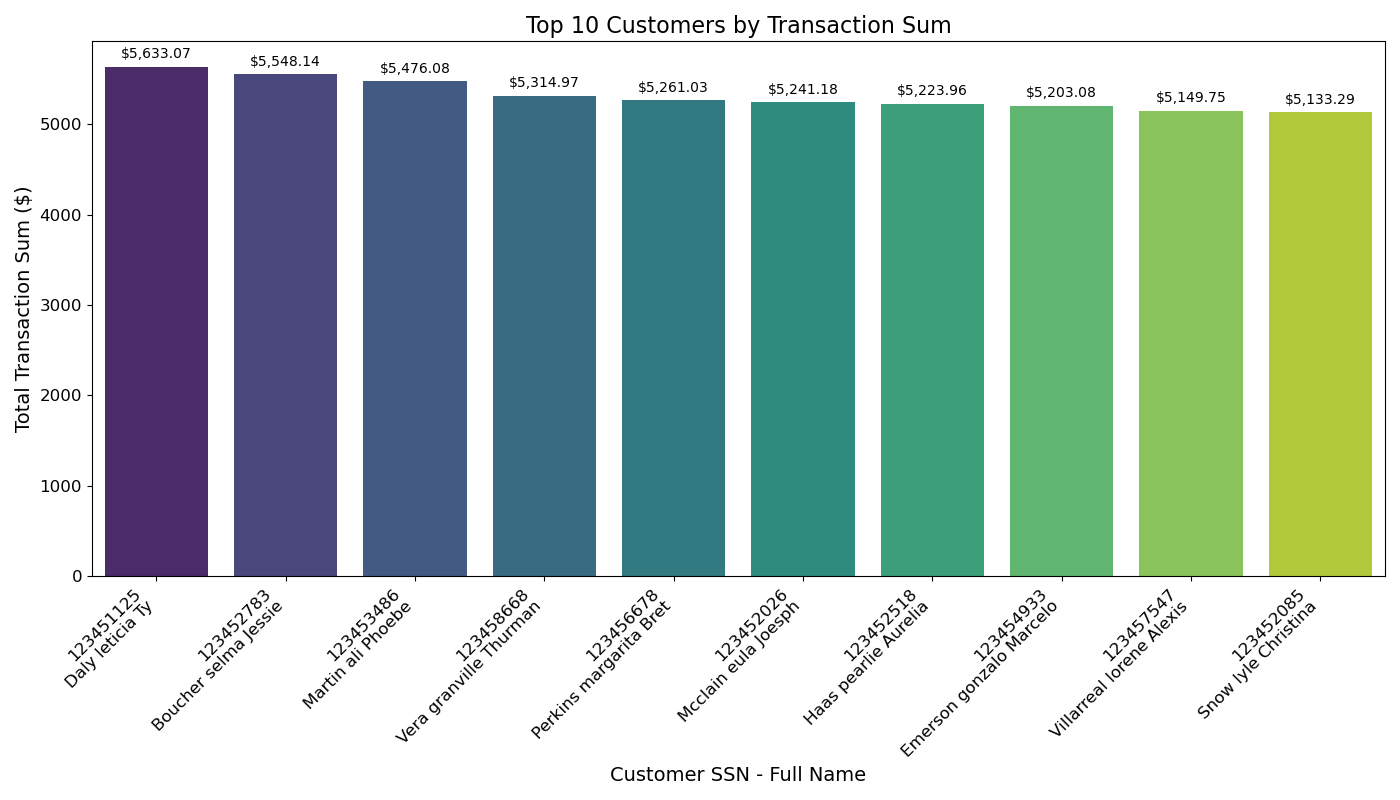
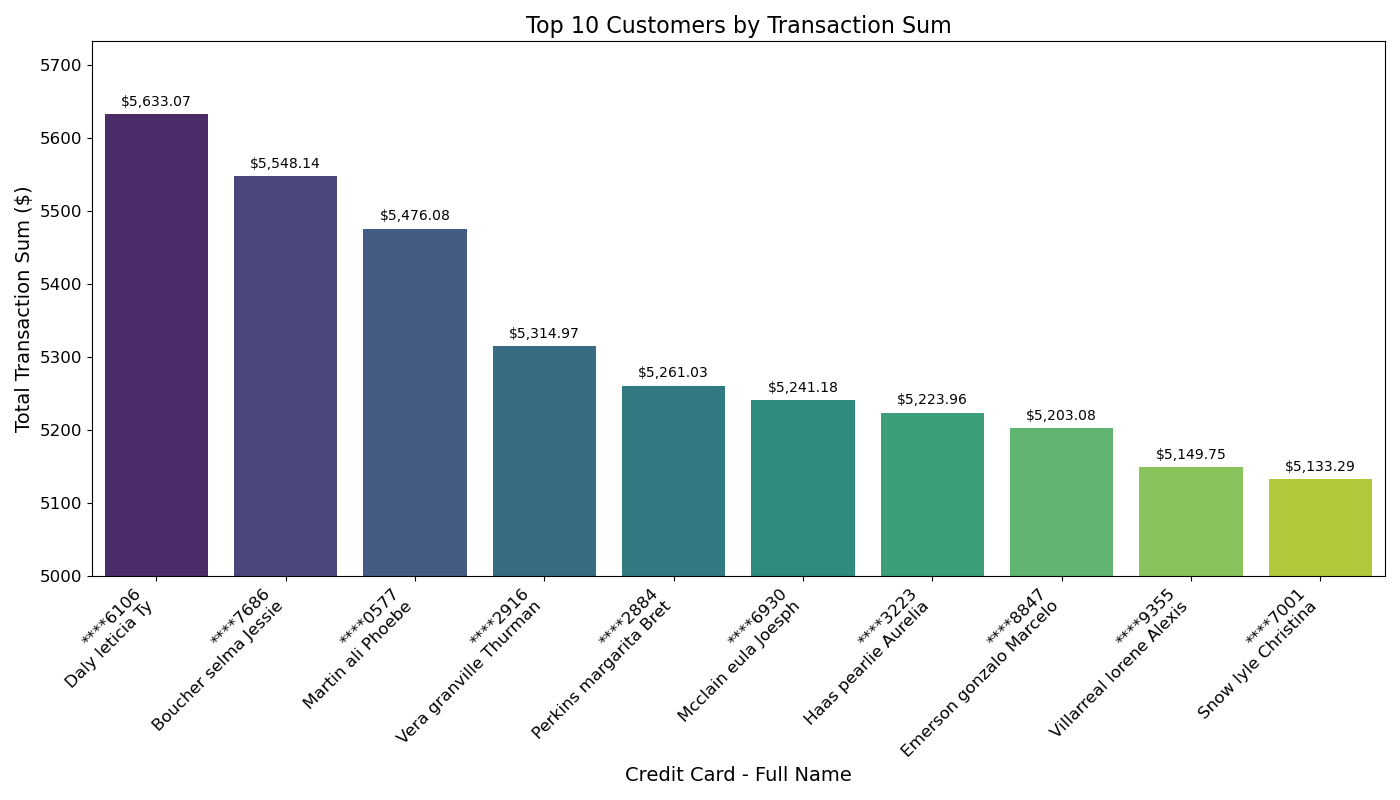
update_07181040

diff --git a/src/functions.py b/src/functions.py
@@ -598,6 +598,8 @@ def plot_transaction_type_count(connection):
     plt.ylabel('Transaction Count')
     plt.xticks(rotation=45)
     
+    plt.ylim(6500, df['transaction_count'].max() + 100)
+    
     for p in ax.patches:
         ax.annotate(f'{int(p.get_height())}', (p.get_x() + p.get_width() / 2., p.get_height()),
                     ha='center', va='center', xytext=(0, 9), textcoords='offset points')
@@ -649,28 +651,31 @@ def plot_top_states_with_customers(connection):
 def plot_top_customers_by_transaction_sum(connection):
     query = """
     SELECT 
-        cc.CUST_SSN, 
+        cc.CREDIT_CARD_NO, 
         ROUND(SUM(cc.TRANSACTION_VALUE), 2) AS total_transaction_sum,
         CONCAT(c.LAST_NAME, ' ', c.MIDDLE_NAME, ' ', c.FIRST_NAME) AS full_name
     FROM CDW_SAPP_CREDIT_CARD cc
     JOIN CDW_SAPP_CUSTOMER c ON cc.CUST_SSN = c.SSN
-    GROUP BY cc.CUST_SSN, c.LAST_NAME, c.MIDDLE_NAME, c.FIRST_NAME
+    GROUP BY cc.CREDIT_CARD_NO, c.LAST_NAME, c.MIDDLE_NAME, c.FIRST_NAME
     ORDER BY total_transaction_sum DESC
     LIMIT 10
     """
     df = pd.read_sql(query, connection)
     
-    df['SSN_Name'] = df['CUST_SSN'].astype(str) + "\n" + df['full_name']
+    # Extract the last 4 digits of the credit card number and combine with the full name
+    df['Card_Name'] = '****' + df['CREDIT_CARD_NO'].astype(str).str[-4:] + "\n" + df['full_name']
     
-    df['SSN_Name'] = pd.Categorical(df['SSN_Name'], categories=df['SSN_Name'], ordered=True)
+    df['Card_Name'] = pd.Categorical(df['Card_Name'], categories=df['Card_Name'], ordered=True)
 
     plt.figure(figsize=(14, 8))
-    ax = sns.barplot(x='SSN_Name', y='total_transaction_sum', data=df, palette='viridis')
+    ax = sns.barplot(x='Card_Name', y='total_transaction_sum', data=df, palette='viridis')
     plt.title('Top 10 Customers by Transaction Sum', fontsize=16)
-    plt.xlabel('Customer SSN - Full Name', fontsize=14)
+    plt.xlabel('Credit Card - Full Name', fontsize=14)
     plt.ylabel('Total Transaction Sum ($)', fontsize=14)
     plt.xticks(rotation=45, ha='right', fontsize=12)
     plt.yticks(fontsize=12)
+    
+    plt.ylim(5000, df['total_transaction_sum'].max() + 100)
 
     for p in ax.patches:
         ax.annotate(f'${p.get_height():,.2f}', (p.get_x() + p.get_width() / 2., p.get_height()),
@@ -684,6 +689,7 @@ def plot_top_customers_by_transaction_sum(connection):
     plt.savefig(filename)
     plt.show()
     print(f"Visualization saved as {filename}")
+
 
 
 # 4. Functional Requirements - LOAN Application Dataset
@@ -831,6 +837,8 @@ def plot_top_three_months_transaction_volume(connection):
     plt.xlabel('Year-Month')
     plt.ylabel('Transaction Volume')
     
+    plt.ylim(3900, df['transaction_count'].max() + 10)
+    
     for index, row in df.iterrows():
         barplot.text(index, row.transaction_count, row.transaction_count, color='black', ha="center", va="bottom")
 
@@ -851,7 +859,7 @@ def plot_highest_healthcare_transactions_branch(connection):
     WHERE TRANSACTION_TYPE = 'Healthcare'
     GROUP BY BRANCH_CODE
     ORDER BY total_value DESC
-    LIMIT 1
+    LIMIT 3
     """
     df = pd.read_sql(query, connection)
 
@@ -860,6 +868,8 @@ def plot_highest_healthcare_transactions_branch(connection):
     plt.title('Branch with Highest Total Value of Healthcare Transactions')
     plt.xlabel('Branch Code')
     plt.ylabel('Total Transaction Value ($)')
+    
+    plt.ylim(3900, df['total_value'].max() + 100)
     
     for index, row in df.iterrows():
         barplot.text(index, row.total_value, f"${row.total_value:,.2f}", color='black', ha="center", va="bottom")
